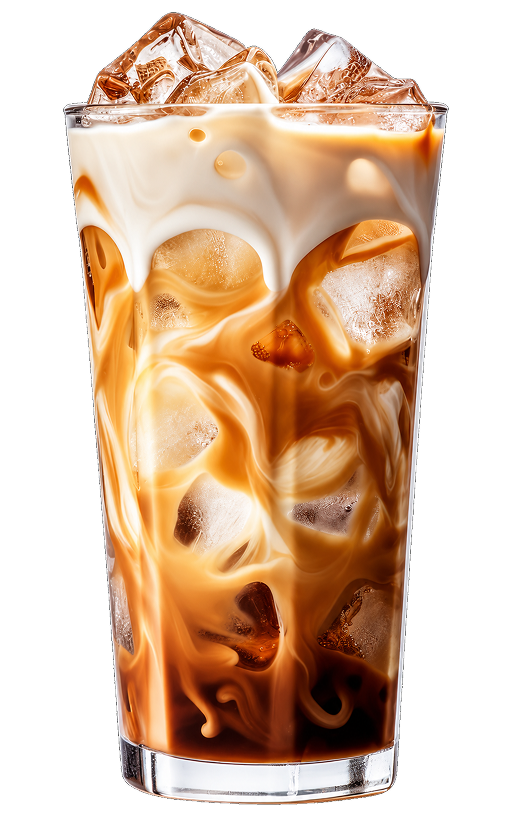
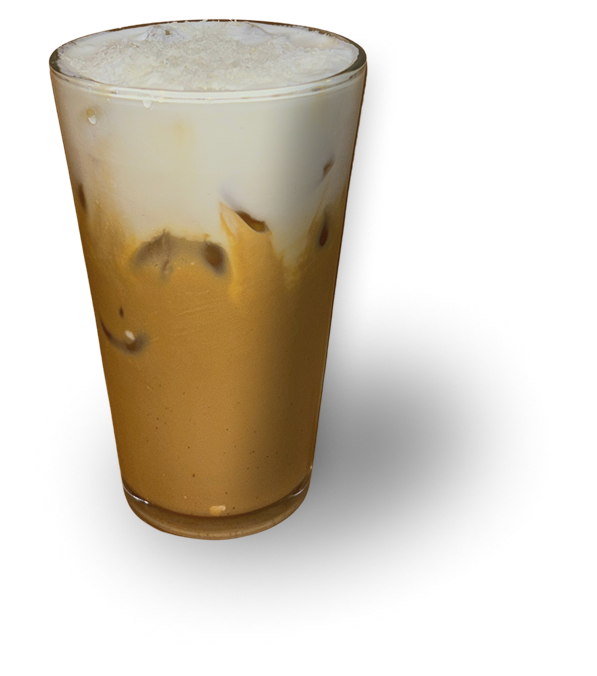
animation updates

diff --git a/src/pages/Menu/Menu.css b/src/pages/Menu/Menu.css
@@ -32,8 +32,9 @@
   display: flex;
   flex-direction: column;
   margin-top: 3rem;
-  width: 100%;
-  gap: 3rem;
+  gap: 4rem;
+  /* margin-left: -2rem;
+  margin-right: -2rem; */
 }
 
 .drink-link{
@@ -58,56 +59,75 @@
   background-color: #E1D3BF;
   position: relative;
   height: 6rem;
-  border-radius: 30px;
-  padding: 1.5rem;
+  padding: 0rem 2rem;
   align-items: center;
+  margin-left: -2rem;
+  border-top-right-radius: 30px;
+  border-bottom-right-radius: 30px;
 
 }
 
 .drink-card-wrapper.reverse{
   flex-direction: row-reverse;
+  margin-left: 2rem;
+  border-top-left-radius: 30px;
+  border-bottom-left-radius: 30px;
+  border-top-right-radius: 0px;
+  border-bottom-right-radius: 0px;
 }
 
 
 .coffee-img{
   height: 10rem;
   position: absolute;
+  top: -3rem;
 }
 
-.drink-title-button{
-  padding-left: 40%;
+.drink-title-button {
   display: flex;
   flex-direction: column;
   justify-content: center;
-  flex: 1;
+  align-items: flex-end;
+  margin-left: auto;
   gap: 0.5rem;
 }
 
 .drink-card-wrapper.reverse .coffee-img{
-  left: auto;
+  right: 1rem;
+
 }
 
-.drink-card-wrapper.reverse .drink-title-button{
-  right: auto;
+.drink-card-wrapper.reverse .drink-title-button {
   margin-left: 0;
-  padding-left: 0;
+  margin-right: auto;
+  align-items: flex-start;
 }
 
 .drink-title{
   font-family: "Groove";
   text-transform: uppercase;
-  color: #650000;
+  color: #CA5050;
+  font-size: 20px;
 }
 
 .view-button-wrapper{
-  width: 5rem;
+  width: 4rem;
 }
 
 .view-button{
   width: 100%;
   padding-top: 4px;
-  height: 1.5rem;
-  font-size: 12px;
+  height: 1.3rem;
+  font-size: 10px;
+  -webkit-tap-highlight-color: transparent;
+  outline: none;
+  font-family: "Groove";
+  text-transform: uppercase;
+  cursor: pointer;
+  border-radius: 50px;
+  border: none;
+  background-color: #D88E86;
+  color: #E1D3BF;
 }
 
 
@@ -120,6 +140,26 @@
   flex-direction: column;
   overflow-y: auto;
   overflow: visible;
+  gap: 2rem;
+}
+
+.menu-option-header{
+  width: 100%;
+  position: relative;
+  display: flex;
+}
+
+.title-wrapper{
+  position: absolute;
+  /* width: 100%; */
+  display: flex;
+  align-items: center;
+  justify-content: center;
+  
+}
+
+.title-wrapper img{
+  width: 60%;
 }
 
 .menu-option-title{

diff --git a/src/pages/Menu/components/MenuOption.jsx b/src/pages/Menu/components/MenuOption.jsx
@@ -3,6 +3,9 @@ import BackButton from "../../../components/Button/BackButton";
 import MenuList from "./MenuList";
 import CursiveTitles from "../../../components/CursiveTitles/CursiveTitles";
 import { SPECIALTY_COFFEES } from "../../../constants/constants";
+import { motion } from "motion/react";
+import { staggerChildren } from "../../../animations/motionVariants";
+
 
 const MENU_TYPE = {
   "specialty-coffees": SPECIALTY_COFFEES,
@@ -14,10 +17,17 @@ const MenuOption = () => {
 
   return(
     <div className="menu-option-container">
-      <BackButton path={"/menu"}/>
+      <div className="menu-option-header">
+        <BackButton path={"/menu"}/>
+
+        <div className="title-wrapper">
+          <motion.img variants={staggerChildren} initial="hidden" animate="visible" src="/Menu/Specialty.png" alt="Specialty" className="specialty-menu-title"/>
+        </div>
+      </div>
+      
 
       {/* SPECIALTY DRINKS  */}
-      <div className="specialty-drinks-wrapper">
+      {/* <div className="specialty-drinks-wrapper"> */}
         {/* <hr className="title-line"/> */}
 
         {/* <span className="specialty-title">Specialty</span>
@@ -27,8 +37,8 @@ const MenuOption = () => {
         </div> */}
 
         {/* <hr className="title-line"/> */}
-        <img src="/Menu/Specialty.png" alt="Specialty" className="menu-title"/>
-      </div>
+        
+      {/* </div> */}
 
       {menuType && (
         <MenuList coffeePath={menuOption} menu={menuType}/>

diff --git a/src/pages/Home/Home.jsx b/src/pages/Home/Home.jsx
@@ -1,35 +1,3 @@
-// import Button from "../../components/Button/Button";
-// import "./Home.css";
-// import { motion } from "motion/react";
-// import { lineSlide, titleSlide, staggerContainer, staggerChildren } from "../../animations/motionVariants";
-// import { useNavigate } from "react-router-dom";
-
-// const Home = () => {
-//   const navigate = useNavigate();
-
-//   return(
-//     <motion.div 
-//       className="home-container"
-//     >
-//       {/* LOGO  */}
-//       <img src="/Home/Main_Logo.png" alt="Main Logo" className="home-logo"/>
-
-//       {/* BUTTON  */}
-
-//       <div className="illustration-button-container">
-//         <img src="/Home/Chairs.png" alt="Chairs" className="illustration"/>
-
-//         <button className="home-button button red">
-//           start order
-//         </button>
-//       </div>
-
-      
-//     </motion.div>
-//   )
-// }
-
-// export default Home;
 
 import { useEffect, useState } from "react";
 import "./Home.css";

diff --git a/src/components/MenuCards/CoffeeCards.jsx b/src/components/MenuCards/CoffeeCards.jsx
@@ -6,21 +6,21 @@ import { Link } from "react-router-dom";
 const COFFEE_OPTIONS = [
   {
     label: "Specialty Coffees", 
-    src: "/Coffee.png", 
+    src: "/sCoffee.png", 
     parentClass: "card-top", 
     childClass: "card-content-top", 
     path: "specialty-coffees"
   }, 
   {
     label: "Classic Coffees", 
-    src: "/Coffee.png", 
+    src: "/sCoffee.png", 
     parentClass: "card-middle", 
     childClass: "card-content-middle", 
     path: "classic-coffees"
   }, 
   {
     label: "Other Drinks", 
-    src: "/Coffee.png", 
+    src: "/sCoffee.png", 
     parentClass: "card-bottom", 
     childClass: "card-content-bottom", 
     path: "other-drinks"

diff --git a/src/components/Button/BackButton.jsx b/src/components/Button/BackButton.jsx
@@ -1,17 +1,20 @@
 import "./Button.css";
 import { useNavigate } from "react-router-dom";
+import { motion } from "motion/react";
 
 const BackButton = ({path}) => {
   const navigate = useNavigate();
 
   return(
-    <div onClick={() => navigate(path)} className="back-button-container">
-      <div className="back-button">
+    <motion.div 
+      onClick={() => navigate(path)} 
+      className="back-button"
+      whileTap={{ scale: 0.8 }}
+    >
+      {/* <div className="back-button"> */}
         <i className="fa-solid fa-angle-left"/>
-      </div>
-
-      <span>Back</span>
-    </div>
+      {/* </div> */}
+    </motion.div>
   )
 }
 

diff --git a/src/pages/Menu/components/MenuList.jsx b/src/pages/Menu/components/MenuList.jsx
@@ -34,7 +34,7 @@ const MenuList = ({coffeePath, menu}) => {
               <span className="drink-title">{drink.title}</span>
 
               <div className="view-button-wrapper">
-                <button className="view-button button red">view</button>
+                <button className="view-button">view</button>
               </div>
               
             </motion.div>

diff --git a/src/components/Popup/CartPopup.jsx b/src/components/Popup/CartPopup.jsx
@@ -11,7 +11,7 @@ const CartPopup = ({setCartPopupOpen, setCartSidebarOpen}) => {
   const navigate = useNavigate();
   const handleViewCart = () => {
     setCartPopupOpen(false)
-    setCartSidebarOpen(true)
+    navigate("/cart")
   }
 
   const handleAddMore = () => {

diff --git a/src/components/DrinkPage/DrinkPage.css b/src/components/DrinkPage/DrinkPage.css
@@ -38,7 +38,7 @@
 .drink-image {
   position: absolute;
   height: 15rem;
-  left: 50%;
+  left: 57%;
   top: 1.5rem;
   transform: translateX(-50%);
 }

diff --git a/src/components/Button/Button.css b/src/components/Button/Button.css
@@ -78,6 +78,7 @@
   box-shadow: 1.5px 1.5px 0px #650000;
   color: #EADDCA;
   font-size: 10px;
+  z-index: 1;
 }
 
 .back-button-container span{
